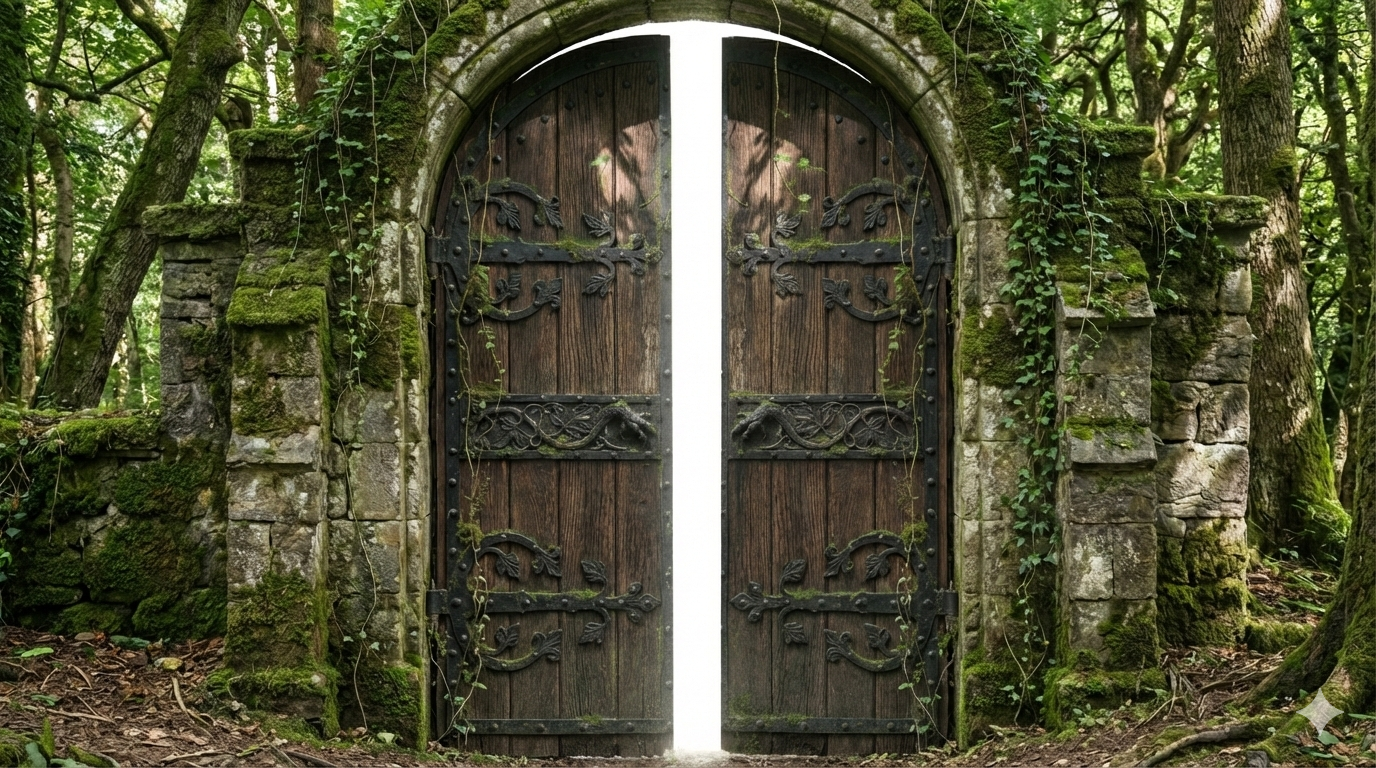
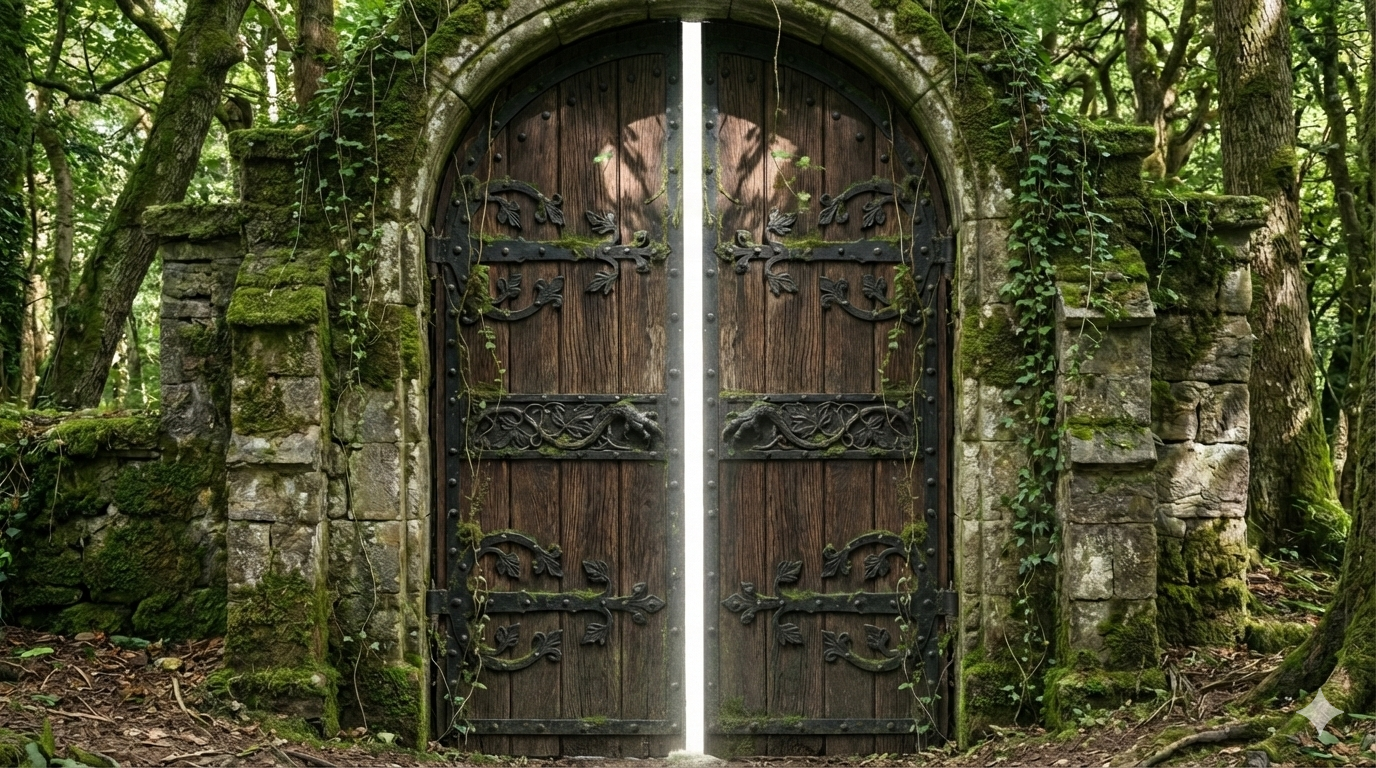
dooranimation

Changed region(s): [[0.3438, 0.0, 0.6562, 1.0], [0.5938, 0.0625, 0.625, 0.0938], [0.375, 0.0625, 0.4062, 0.0938]]

diff --git a/client/src/components/Game/DoorAnimation.jsx b/client/src/components/Game/DoorAnimation.jsx
@@ -8,7 +8,7 @@ const DoorAnimation = ({ phase, onAnimationComplete }) => {
   const [textScale, setTextScale] = useState(0.5);
   const [textOpacity, setTextOpacity] = useState(0);
 
-  const totalFrames = 6; // frame-0 ~ frame-5
+  const totalFrames = 9; // frame-0 ~ frame-8
 
   useEffect(() => {
     if (phase === 'opening') {
@@ -133,7 +133,7 @@ const DoorAnimation = ({ phase, onAnimationComplete }) => {
           }}
         >
           <div className="text-6xl font-bold text-amber-400 tracking-widest">
-            ゲームスタート！
+            GAME START!
           </div>
         </div>
       )}
